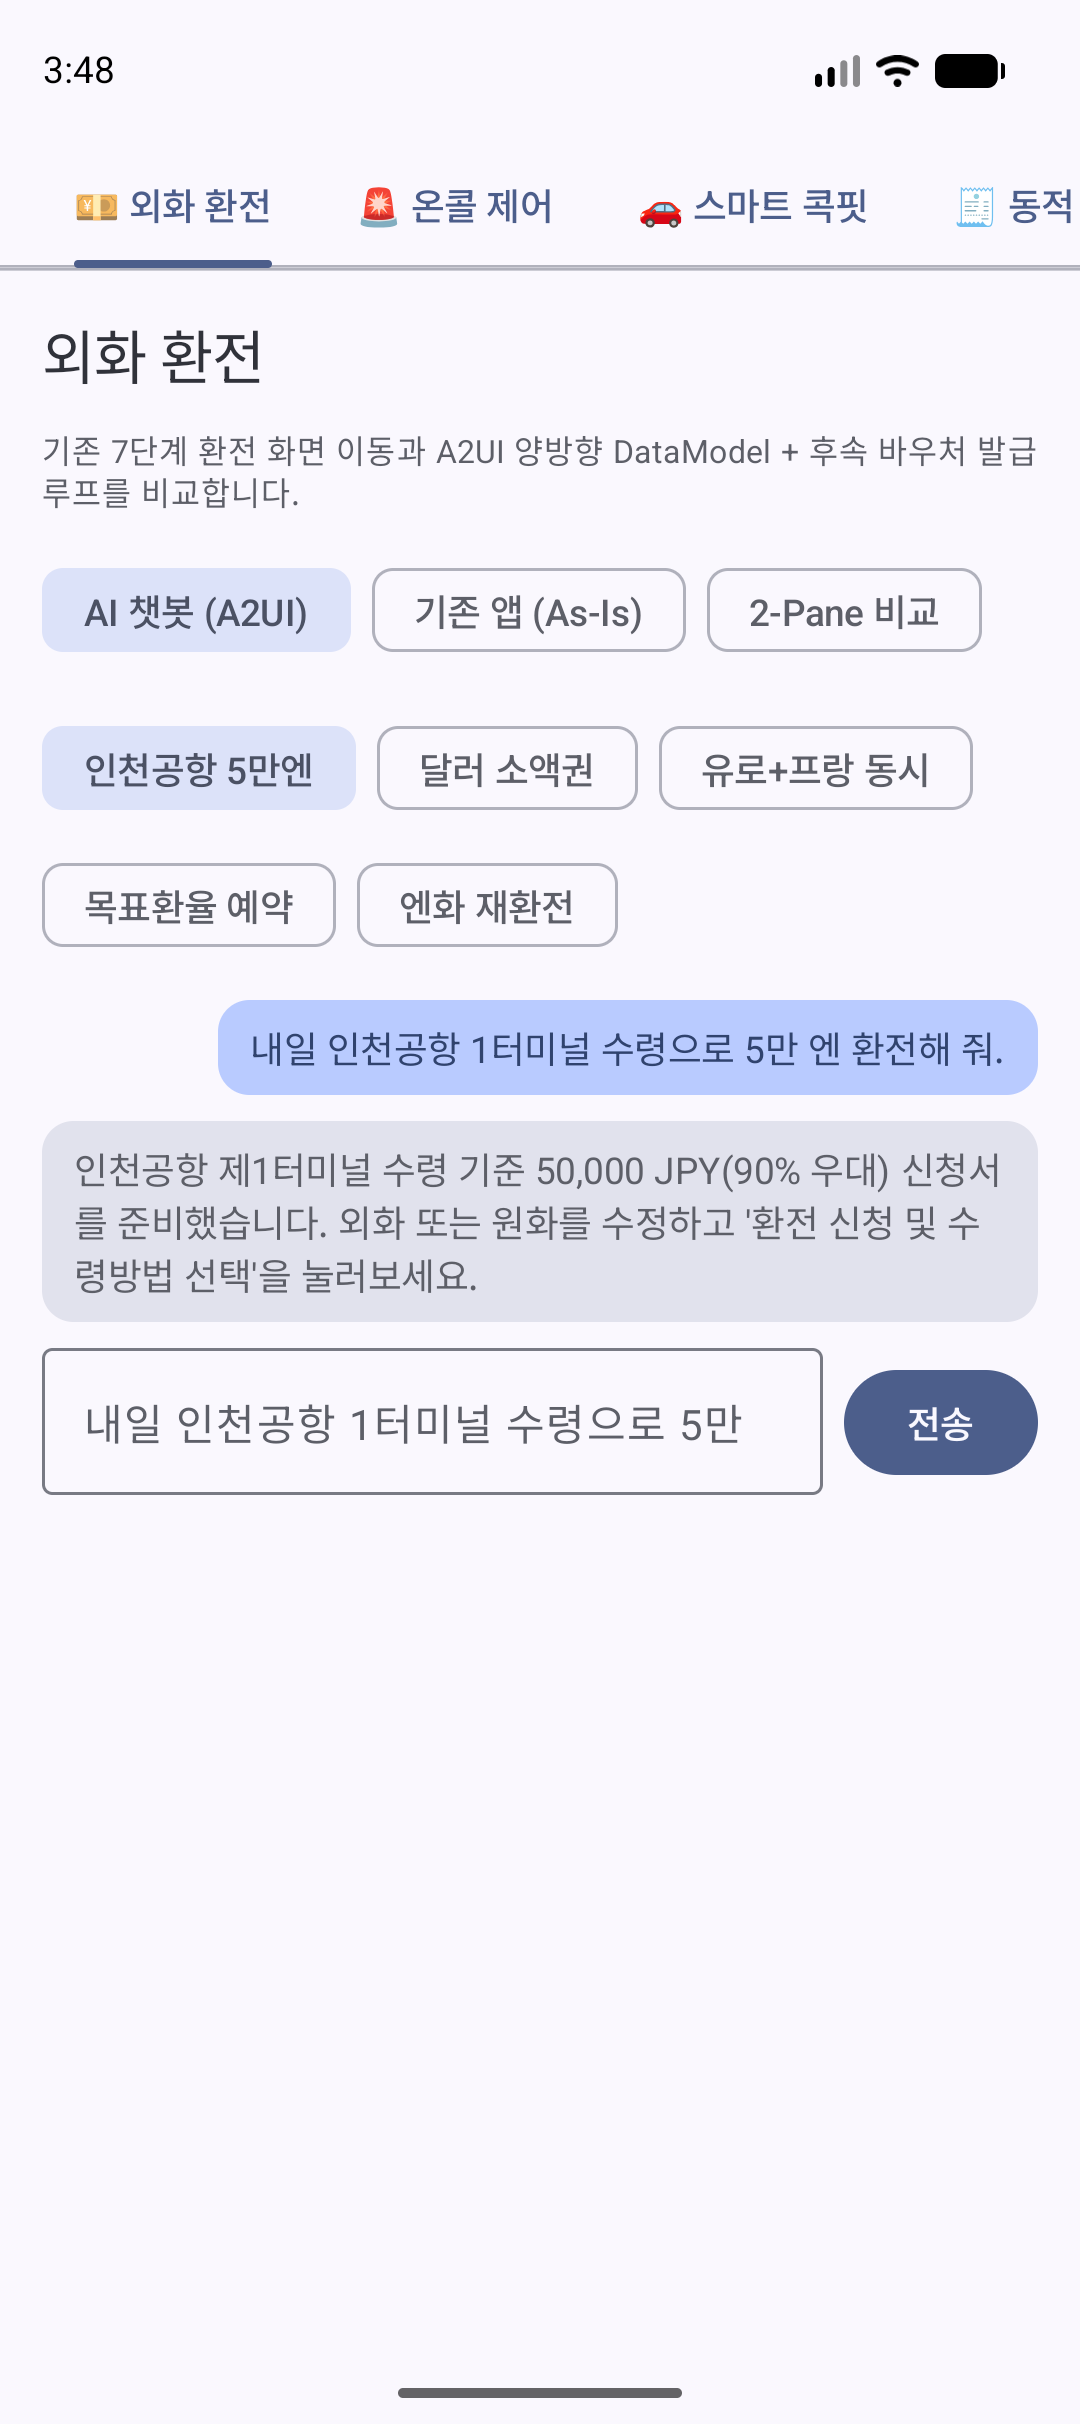
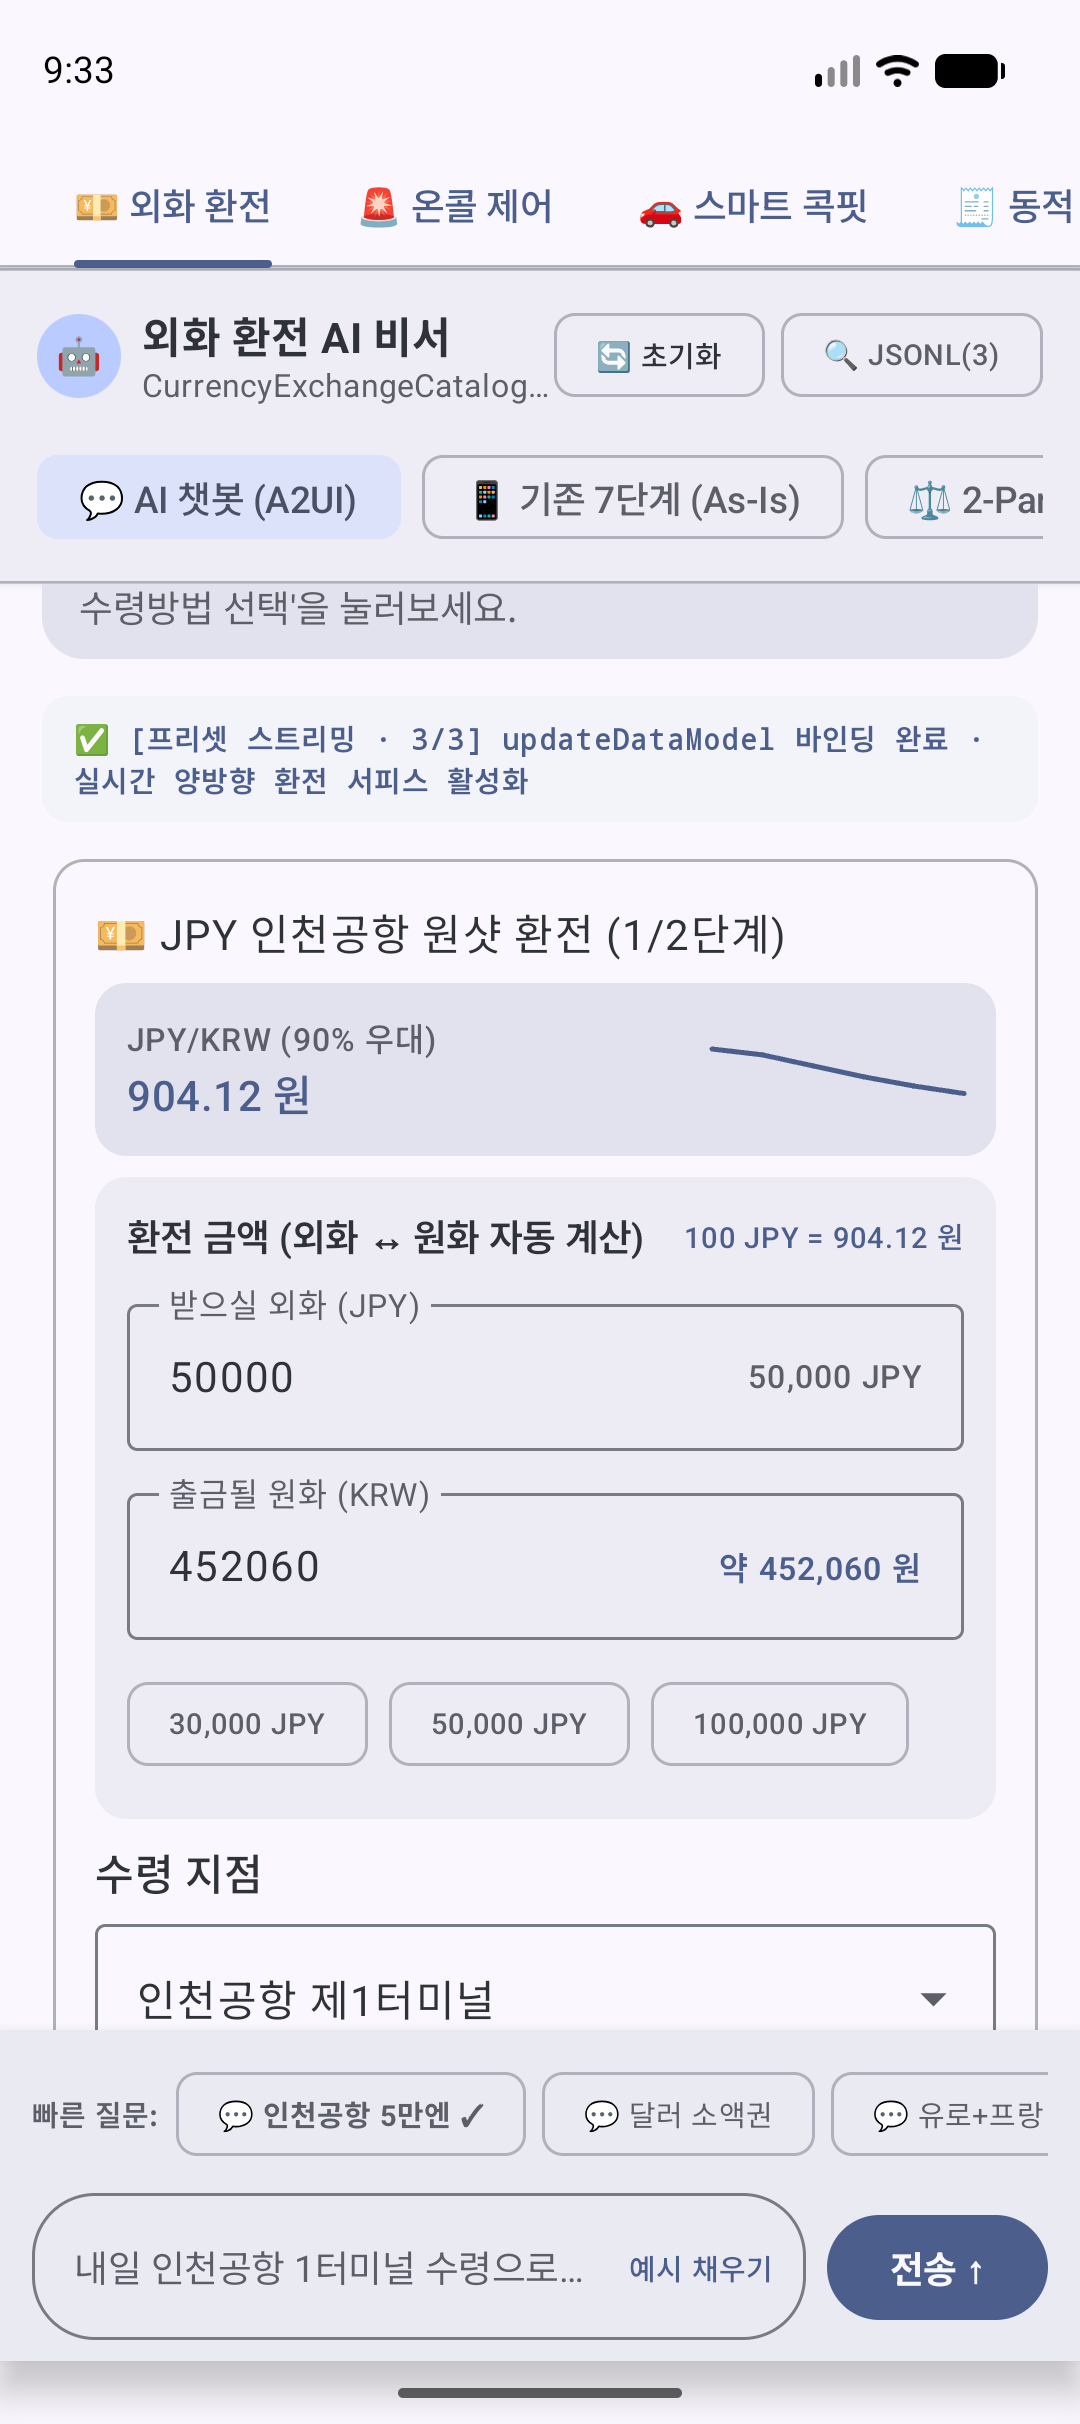
feat: migrate to A2uiProperty.nestedObject/nestedObjectList and refine Gemini API settings UI

diff --git a/app/src/main/java/com/droidknights/a2ui/common/A2uiAgentChatScaffold.kt b/app/src/main/java/com/droidknights/a2ui/common/A2uiAgentChatScaffold.kt
@@ -270,7 +270,7 @@ private fun flattenContextMap(
 
 /**
  * Dialog for configuring the Gemini API Key (`local.properties` or runtime override),
- * model name (`gemini-2.5-flash` / `gemini-2.5-pro`), and toggling Gemini API vs Offline Preset mode.
+ * model name (`gemini-3.8-flash` / `gemini-4-argon` / `gemini-3.5-flash-lite`), and toggling Gemini API vs Offline Preset mode.
  */
 @Composable
 fun GeminiApiSettingsDialog(
@@ -282,7 +282,7 @@ fun GeminiApiSettingsDialog(
     onSave: (apiKey: String, model: String, enabled: Boolean) -> Unit,
 ) {
     var apiKeyInput by rememberSaveable { mutableStateOf(initialApiKey) }
-    var modelInput by rememberSaveable { mutableStateOf(initialModel.ifBlank { "gemini-2.5-flash" }) }
+    var modelInput by rememberSaveable { mutableStateOf(initialModel.ifBlank { "gemini-3.8-flash" }) }
     var enabledInput by rememberSaveable { mutableStateOf(initialEnabled) }
     var showRawKey by rememberSaveable { mutableStateOf(false) }
 
@@ -364,8 +364,11 @@ fun GeminiApiSettingsDialog(
                     modifier = Modifier.fillMaxWidth(),
                 )
 
-                Row(horizontalArrangement = Arrangement.spacedBy(8.dp)) {
-                    listOf("gemini-2.5-flash", "gemini-2.5-pro").forEach { presetModel ->
+                Row(
+                    modifier = Modifier.horizontalScroll(rememberScrollState()),
+                    horizontalArrangement = Arrangement.spacedBy(8.dp),
+                ) {
+                    listOf("gemini-3.8-flash", "gemini-4-argon", "gemini-3.5-flash-lite").forEach { presetModel ->
                         FilterChip(
                             selected = modelInput == presetModel,
                             onClick = { modelInput = presetModel },
@@ -466,8 +469,8 @@ fun A2uiAgentChatScaffold(
             modifier = Modifier.fillMaxWidth(),
         ) {
             Column(
-                modifier = Modifier.fillMaxWidth().padding(horizontal = 16.dp, vertical = 10.dp),
-                verticalArrangement = Arrangement.spacedBy(8.dp),
+                modifier = Modifier.fillMaxWidth().padding(horizontal = 14.dp, vertical = 8.dp),
+                verticalArrangement = Arrangement.spacedBy(6.dp),
             ) {
                 Row(
                     modifier = Modifier.fillMaxWidth(),
@@ -476,42 +479,28 @@ fun A2uiAgentChatScaffold(
                 ) {
                     Row(
                         verticalAlignment = Alignment.CenterVertically,
-                        horizontalArrangement = Arrangement.spacedBy(10.dp),
+                        horizontalArrangement = Arrangement.spacedBy(8.dp),
                         modifier = Modifier.weight(1f),
                     ) {
                         Box(
                             modifier =
-                                Modifier.size(36.dp)
+                                Modifier.size(32.dp)
                                     .clip(CircleShape)
                                     .background(MaterialTheme.colorScheme.primaryContainer),
                             contentAlignment = Alignment.Center,
                         ) {
-                            Text(text = "🤖", style = MaterialTheme.typography.titleMedium)
+                            Text(text = "🤖", style = MaterialTheme.typography.titleSmall)
                         }
-                        Column {
-                            Row(
-                                verticalAlignment = Alignment.CenterVertically,
-                                horizontalArrangement = Arrangement.spacedBy(8.dp),
-                            ) {
-                                Text(
-                                    text = "$scenarioTitle AI 비서",
-                                    style = MaterialTheme.typography.titleMedium,
-                                    fontWeight = FontWeight.Bold,
-                                )
-                                Surface(
-                                    color = MaterialTheme.colorScheme.secondaryContainer,
-                                    shape = RoundedCornerShape(6.dp),
-                                ) {
-                                    Text(
-                                        text = catalogBadge,
-                                        style = MaterialTheme.typography.labelSmall,
-                                        fontFamily = FontFamily.Monospace,
-                                        modifier = Modifier.padding(horizontal = 6.dp, vertical = 2.dp),
-                                    )
-                                }
-                            }
+                        Column(modifier = Modifier.weight(1f)) {
                             Text(
-                                text = scenarioSubtitle,
+                                text = "$scenarioTitle AI 비서",
+                                style = MaterialTheme.typography.titleMedium,
+                                fontWeight = FontWeight.Bold,
+                                maxLines = 1,
+                                overflow = TextOverflow.Ellipsis,
+                            )
+                            Text(
+                                text = "$catalogBadge · $scenarioSubtitle",
                                 style = MaterialTheme.typography.bodySmall,
                                 color = MaterialTheme.colorScheme.onSurfaceVariant,
                                 maxLines = 1,
@@ -526,7 +515,13 @@ fun A2uiAgentChatScaffold(
                     ) {
                         AssistChip(
                             onClick = { onClearOutbound() },
-                            label = { Text("🔄 다시 실행", style = MaterialTheme.typography.labelSmall) },
+                            label = {
+                                Text(
+                                    text = "🔄 초기화",
+                                    style = MaterialTheme.typography.labelSmall,
+                                    maxLines = 1,
+                                )
+                            },
                         )
                         FilterChip(
                             selected = showTelemetryDrawer,
@@ -535,11 +530,15 @@ fun A2uiAgentChatScaffold(
                                 val eventCount = outboundLog.size
                                 val badgeText =
                                     if (eventCount > 0) {
-                                        "🔍 JSONL(${jsonlStream.size}) · 이벤트($eventCount)"
+                                        "🔍 JSONL(${jsonlStream.size})·이벤트($eventCount)"
                                     } else {
-                                        "🔍 JSONL 로그 (${jsonlStream.size})"
+                                        "🔍 JSONL(${jsonlStream.size})"
                                     }
-                                Text(badgeText, style = MaterialTheme.typography.labelSmall)
+                                Text(
+                                    text = badgeText,
+                                    style = MaterialTheme.typography.labelSmall,
+                                    maxLines = 1,
+                                )
                             },
                         )
                     }

diff --git a/app/src/main/java/com/droidknights/a2ui/catalog/schema/MetricSparklineSchema.kt b/app/src/main/java/com/droidknights/a2ui/catalog/schema/MetricSparklineSchema.kt
@@ -112,23 +112,23 @@ interface MetricSparklineSchema : A2uiComponent {
         val thresholdCritProperty =
             A2uiProperty.number("critical", required = false, description = "Critical threshold")
         val thresholdProperty =
-            A2uiProperty.nested(
+            A2uiProperty.nestedObject(
                 key = "threshold",
                 properties = listOf(thresholdWarnProperty, thresholdCritProperty),
                 required = false,
-                description = "Nested threshold bounds (AOSP CL 4390685 A2uiProperty.nested)",
+                description = "Nested threshold bounds (A2uiProperty.nestedObject)",
             )
         val annotationTagProperty =
             A2uiProperty.dynamicString("tag", required = true, description = "Annotation tag")
         val annotationNoteProperty =
             A2uiProperty.dynamicString("note", required = false, description = "Annotation note")
         val annotationsProperty =
-            A2uiProperty.nestedList(
+            A2uiProperty.nestedObjectList(
                 key = "annotations",
                 properties = listOf(annotationTagProperty, annotationNoteProperty),
                 required = false,
                 maxItems = 8,
-                description = "Inline annotation items (AOSP CL 4390685 A2uiProperty.nestedList)",
+                description = "Inline annotation items (A2uiProperty.nestedObjectList)",
             )
     }
 }

diff --git a/app/src/main/java/com/droidknights/a2ui/scenarios/CurrencyExchangeDemo.kt b/app/src/main/java/com/droidknights/a2ui/scenarios/CurrencyExchangeDemo.kt
@@ -218,11 +218,6 @@ fun CurrencyExchangeDemo() {
                     sourceLabel = "Gemini API (${response.modelUsed})",
                 )
             } else {
-                val errorReason =
-                    geminiResult.exceptionOrNull()?.message?.take(80) ?: "네트워크/응답 오류"
-                interceptorAuditLog.add(
-                    "⚠ Gemini API 폴백 ($errorReason) → 오프라인 안전 프리셋 스트리밍으로 자동 전환됨",
-                )
                 val fallbackLines = CurrencyExchangePayloads.buildJsonl(selectedPrompt)
                 streamJsonlLinesProgressively(
                     rawLines = fallbackLines,

diff --git a/app/src/main/java/com/droidknights/a2ui/common/A2uiGeminiApiClient.kt b/app/src/main/java/com/droidknights/a2ui/common/A2uiGeminiApiClient.kt
@@ -83,7 +83,7 @@ object A2uiGeminiApiClient {
 
     fun isGeminiApiEnabled(context: Context): Boolean {
         val prefs = context.getSharedPreferences(PREFS_NAME, Context.MODE_PRIVATE)
-        return prefs.getBoolean(KEY_ENABLED, true)
+        return prefs.getBoolean(KEY_ENABLED, false)
     }
 
     fun setGeminiApiEnabled(context: Context, enabled: Boolean) {
